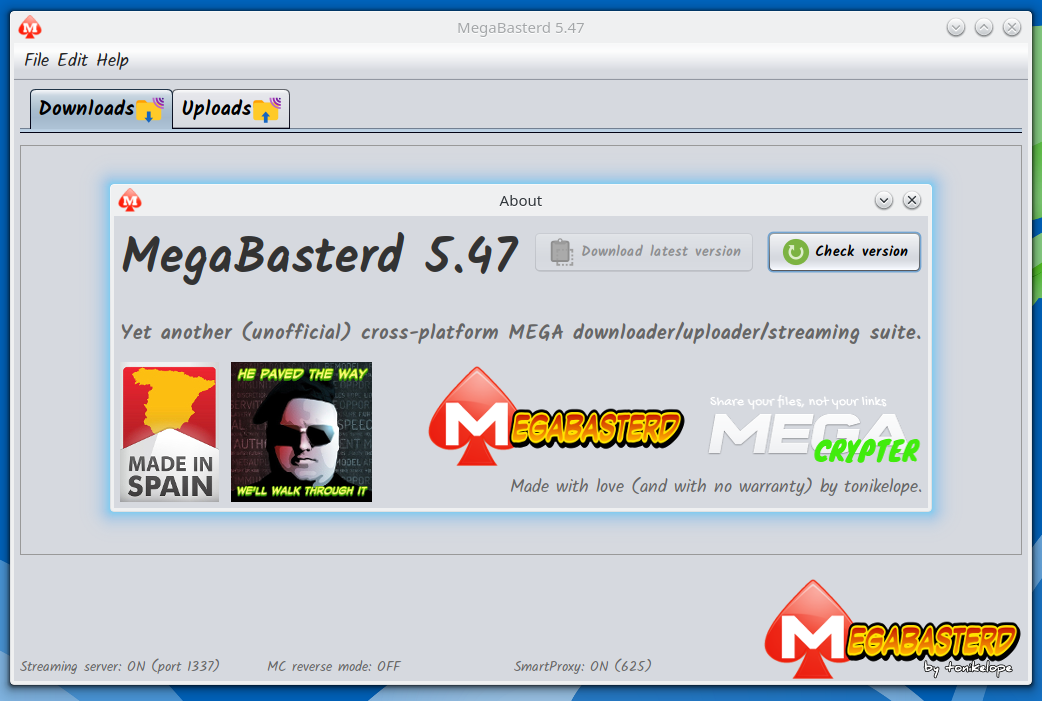
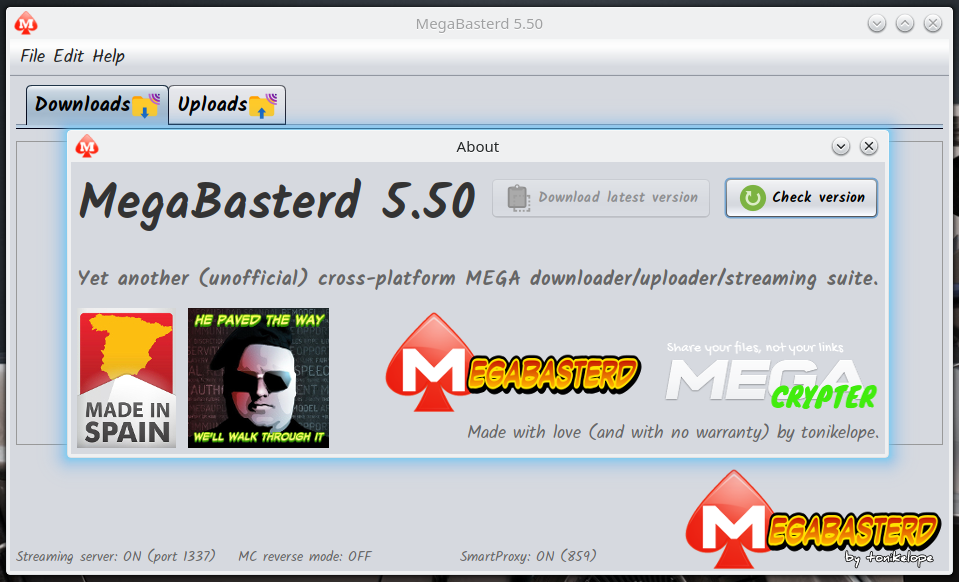
5.50
Trying to fix -> https://github.com/tonikelope/megabasterd/issues/32

diff --git a/src/main/java/com/tonikelope/megabasterd/ChunkDownloader.java b/src/main/java/com/tonikelope/megabasterd/ChunkDownloader.java
@@ -239,36 +239,36 @@ public class ChunkDownloader implements Runnable, SecureSingleThreadNotifiable {
 
                                     tmp_chunk_file = new File(_download.getDownload_path() + "/" + _download.getFile_name() + ".chunk" + chunk_id + ".tmp");
 
-                                    FileOutputStream fo = new FileOutputStream(tmp_chunk_file);
+                                    try (FileOutputStream tmp_chunk_file_os = new FileOutputStream(tmp_chunk_file)) {
 
-                                    while (!_exit && !_download.isStopped() && !_download.getChunkmanager().isExit() && chunk_reads < chunk_size && (reads = is.read(buffer)) != -1) {
+                                        while (!_exit && !_download.isStopped() && !_download.getChunkmanager().isExit() && chunk_reads < chunk_size && (reads = is.read(buffer)) != -1) {
 
-                                        fo.write(buffer, 0, reads);
+                                            tmp_chunk_file_os.write(buffer, 0, reads);
 
-                                        chunk_reads += reads;
+                                            chunk_reads += reads;
 
-                                        _download.getPartialProgress().add((long) reads);
+                                            _download.getPartialProgress().add((long) reads);
 
-                                        _download.getProgress_meter().secureNotify();
+                                            _download.getProgress_meter().secureNotify();
 
-                                        if (_download.isPaused() && !_download.isStopped()) {
+                                            if (_download.isPaused() && !_download.isStopped()) {
 
-                                            _download.pause_worker();
+                                                _download.pause_worker();
 
-                                            secureWait();
+                                                secureWait();
 
-                                        } else if (!_download.isPaused() && _download.getMain_panel().getDownload_manager().isPaused_all()) {
+                                            } else if (!_download.isPaused() && _download.getMain_panel().getDownload_manager().isPaused_all()) {
 
-                                            _download.pause();
+                                                _download.pause();
 
-                                            _download.pause_worker();
+                                                _download.pause_worker();
 
-                                            secureWait();
+                                                secureWait();
+                                            }
+
                                         }
 
                                     }
-
-                                    fo.close();
 
                                 } else {
 
@@ -287,29 +287,21 @@ public class ChunkDownloader implements Runnable, SecureSingleThreadNotifiable {
 
                             if (tmp_chunk_file != null && chunk_file != null && (!chunk_file.exists() || chunk_file.length() != chunk_size)) {
 
-                                boolean rename_ok;
+                                if (tmp_chunk_file.renameTo(chunk_file)) {
 
-                                do {
+                                    _download.getChunkmanager().secureNotify();
 
-                                    rename_ok = tmp_chunk_file.renameTo(chunk_file);
+                                    conta_error = 0;
 
-                                    if (!rename_ok) {
+                                    chunk_error = false;
 
-                                        Logger.getLogger(getClass().getName()).log(Level.INFO, "{0} Worker [{1}] ERROR RENAMING chunk TEMP FILE [{2}]!", new Object[]{Thread.currentThread().getName(), _id, chunk_id});
+                                    http_error = 0;
 
-                                        Thread.sleep(1000);
-                                    }
+                                } else {
+                                    Logger.getLogger(getClass().getName()).log(Level.INFO, "{0} Worker [{1}] ERROR RENAMING chunk TEMP FILE [{2}]!", new Object[]{Thread.currentThread().getName(), _id, chunk_id});
 
-                                } while (!rename_ok);
+                                }
                             }
-
-                            _download.getChunkmanager().secureNotify();
-
-                            conta_error = 0;
-
-                            chunk_error = false;
-
-                            http_error = 0;
                         }
                     }
 

diff --git a/src/main/java/com/tonikelope/megabasterd/DownloadView.java b/src/main/java/com/tonikelope/megabasterd/DownloadView.java
@@ -3,7 +3,6 @@ package com.tonikelope.megabasterd;
 import java.awt.Color;
 import java.awt.Desktop;
 import java.io.File;
-import java.io.IOException;
 import static java.lang.Integer.MAX_VALUE;
 import java.util.concurrent.Callable;
 import javax.swing.JButton;
@@ -16,6 +15,8 @@ import javax.swing.JSpinner;
 import javax.swing.SpinnerNumberModel;
 import static com.tonikelope.megabasterd.MiscTools.*;
 import static com.tonikelope.megabasterd.MainPanel.*;
+import java.util.logging.Level;
+import java.util.logging.Logger;
 
 /**
  *
@@ -391,8 +392,8 @@ public final class DownloadView extends javax.swing.JPanel implements Transferen
         if (Desktop.isDesktopSupported()) {
             try {
                 Desktop.getDesktop().open(new File(_download.getDownload_path() + "/" + _download.getFile_name()).getParentFile());
-            } catch (IOException ex) {
-                JOptionPane.showMessageDialog(_download.getMain_panel().getView(), LabelTranslatorSingleton.getInstance().translate("Folder not found"));
+            } catch (Exception ex) {
+                Logger.getLogger(getClass().getName()).log(Level.INFO, ex.getMessage());
             }
         }
 

diff --git a/src/main/java/com/tonikelope/megabasterd/Download.java b/src/main/java/com/tonikelope/megabasterd/Download.java
@@ -817,6 +817,11 @@ public final class Download implements Transference, Runnable, SecureSingleThrea
                 parent_download_dir.delete();
                 parent_download_dir = parent_download_dir.getParentFile();
             }
+
+            if (!(new File(getDownload_path() + "/" + getFile_name()).getParentFile().exists())) {
+
+                getView().getOpen_folder_button().setEnabled(false);
+            }
         }
 
         if (!_status_error) {

diff --git a/src/main/java/com/tonikelope/megabasterd/MainPanel.java b/src/main/java/com/tonikelope/megabasterd/MainPanel.java
@@ -47,7 +47,7 @@ import java.io.File;
  */
 public final class MainPanel {
 
-    public static final String VERSION = "5.49";
+    public static final String VERSION = "5.50";
     public static final int THROTTLE_SLICE_SIZE = 16 * 1024;
     public static final int DEFAULT_BYTE_BUFFER_SIZE = 16 * 1024;
     public static final int STREAMER_PORT = 1337;
